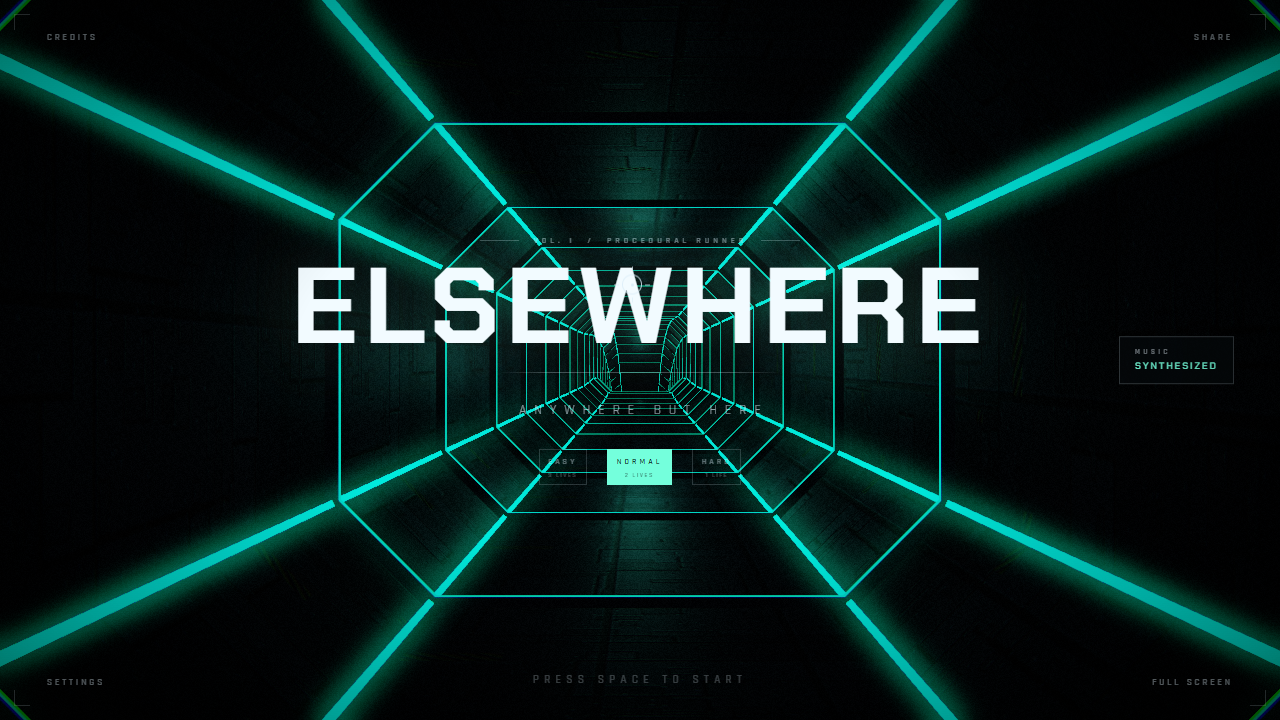
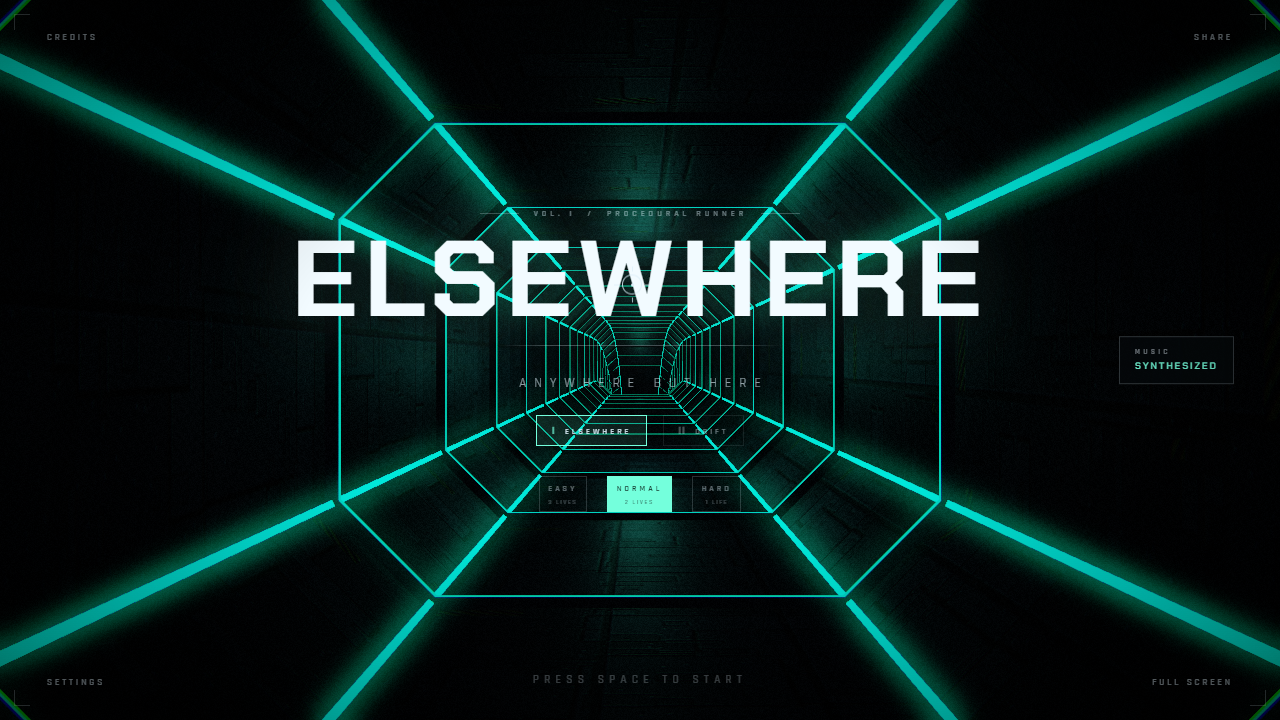
feat: clip glass to the corridor section, and pick volumes from the title screen
- the pane is clipped before either glass style runs, and the clip follows the
  topology: a closed octagon for conduit, a floor-to-lip rectangle for canal.
  Shutter walls no longer poke up into the sky
- the title screen gains a volume row: I ELSEWHERE / II DRIFT. Choosing one is
  a reload with ?vol=, which keeps the whole config-driven model intact instead
  of rebuilding a live scene

That completes the P0 list for DRIFT.

Changed region(s): [[0.2188, 0.275, 0.7812, 0.7333]]

diff --git a/js/gates.js b/js/gates.js
@@ -1,6 +1,6 @@
 import * as THREE from 'three';
-import { TUNNEL } from './tunnel.js?v=2026-11-10c';
-import { VOL } from './volumes.js?v=2026-11-10c';
+import { TUNNEL } from './tunnel.js?v=2026-11-10d';
+import { VOL } from './volumes.js?v=2026-11-10d';
 
 /* ------------------------------------------------------------------ *
  *  A bulkhead is not a sheet with a hole in it — it is a set of glass
@@ -91,6 +91,7 @@ uniform vec2  uSize;
 uniform float uHub;
 uniform float uStyle;
 uniform float uAxis;
+uniform float uClip;     // 0 = closed octagon, 1 = open canal
 
 const float PI = 3.14159265;
 const float TAU = 6.28318531;
@@ -100,6 +101,20 @@ float hash(float x){ return fract(sin(x * 127.1) * 43758.5453); }
 
 void main(){
   if (vDepth < 0.5) discard;
+
+  vec2 p = (vUv - 0.5) * uSize;
+
+  /* clip to the corridor's actual section, before either glass style */
+  float hullD;
+  if (uClip > 0.5) {
+    if (abs(p.x) > uHull.x || p.y < -uHull.y || p.y > 0.55) discard;
+    hullD = min(uHull.x - abs(p.x), min(p.y + uHull.y, 0.55 - p.y));
+  } else {
+    if (abs(p.x) > uHull.x || abs(p.y) > uHull.y) discard;
+    hullD = min(min(uHull.x - abs(p.x), uHull.y - abs(p.y)),
+                (uHull.x + uHull.y - uHull.z) - (abs(p.x) + abs(p.y)));
+    if (hullD < 0.0) discard;
+  }
 
   /* ---- shutter glass: three horizontal bands, one of them open ---- */
   if (uStyle > 0.5) {
@@ -126,14 +141,6 @@ void main(){
     gl_FragColor = vec4(col, clamp(a, 0.0, 1.0));
     return;
   }
-
-  vec2 p = (vUv - 0.5) * uSize;
-
-  // clip to the corridor's octagonal section
-  if (abs(p.x) > uHull.x || abs(p.y) > uHull.y) discard;
-  float hullD = min(min(uHull.x - abs(p.x), uHull.y - abs(p.y)),
-                    (uHull.x + uHull.y - uHull.z) - (abs(p.x) + abs(p.y)));
-  if (hullD < 0.0) discard;
 
   float r = length(p);
   float t = mod(atan(p.y, p.x) + TAU + PI / 8.0, TAU);
@@ -236,6 +243,7 @@ export class Gate {
         uHub: { value: HUB_R },
         uStyle: { value: VOL.obstacle === 'shutter' ? 1 : 0 },
         uAxis: { value: this.axis },
+        uClip: { value: VOL.topology === 'canal' ? 1 : 0 },
       },
       transparent: true,
       blending: THREE.AdditiveBlending,

diff --git a/js/main.js b/js/main.js
@@ -1,13 +1,13 @@
 import * as THREE from 'three';
-import { buildTextures } from './textures.js?v=2026-11-10c';
-import { Tunnel, TUNNEL } from './tunnel.js?v=2026-11-10c';
-import { buildPath } from './path.js?v=2026-11-10c';
-import { Gates, laneOf, lanePoint } from './gates.js?v=2026-11-10c';
-import { PostFX } from './post.js?v=2026-11-10c';
-import { AudioEngine } from './audio.js?v=2026-11-10c';
-import { chartFor, DIFFICULTY, SONG_BEATS } from './chart.js?v=2026-11-10c';
-import { VOL } from './volumes.js?v=2026-11-10c';
-import { Recorder } from './recorder.js?v=2026-11-10c';
+import { buildTextures } from './textures.js?v=2026-11-10d';
+import { Tunnel, TUNNEL } from './tunnel.js?v=2026-11-10d';
+import { buildPath } from './path.js?v=2026-11-10d';
+import { Gates, laneOf, lanePoint } from './gates.js?v=2026-11-10d';
+import { PostFX } from './post.js?v=2026-11-10d';
+import { AudioEngine } from './audio.js?v=2026-11-10d';
+import { chartFor, DIFFICULTY, SONG_BEATS } from './chart.js?v=2026-11-10d';
+import { VOL } from './volumes.js?v=2026-11-10d';
+import { Recorder } from './recorder.js?v=2026-11-10d';
 
 /* ------------------------------------------------------------------ *
  *  Boot flags
@@ -807,6 +807,11 @@ window.addEventListener('resize', resize);
  *  UI wiring
  * ------------------------------------------------------------------ */
 document.getElementById('ui').addEventListener('click', (e) => {
+  const volBtn = e.target.closest('[data-vol]');
+  if (volBtn) {
+    location.search = '?vol=' + volBtn.dataset.vol;
+    return;
+  }
   const diffBtn = e.target.closest('[data-diff]');
   if (diffBtn) {
     difficulty = diffBtn.dataset.diff;
@@ -852,6 +857,13 @@ document.getElementById('ui').addEventListener('click', (e) => {
   }
   if (act === 'closepanel') elPanel.classList.add('hidden');
 });
+
+function syncVolume() {
+  for (const b of document.querySelectorAll('[data-vol]')) {
+    b.classList.toggle('active', b.dataset.vol === VOL.id);
+  }
+}
+syncVolume();
 
 function syncDifficulty() {
   for (const b of document.querySelectorAll('[data-diff]')) {

diff --git a/css/style.css b/css/style.css
@@ -498,3 +498,29 @@ html,body{
   background:rgba(6,10,12,.72);
 }
 #menu .frame{ color:var(--ui); }
+/* ================================================================== *
+   VOLUME SELECTOR
+ * ================================================================== */
+.vols{
+  display:flex; gap:clamp(8px,1.2vw,18px); margin-top:3.2vh;
+  pointer-events:auto;
+}
+.vol-btn{
+  appearance:none; background:none; border:1px solid rgba(220,238,248,.20);
+  color:inherit; font-family:var(--text); font-weight:500;
+  padding:.6em 1.1em; display:flex; align-items:baseline; gap:.7em;
+  opacity:.45; transition:opacity .2s, border-color .2s, background .2s;
+}
+.vol-btn b{
+  font-family:var(--display); font-weight:700;
+  font-size:clamp(9px,.8vw,12px); letter-spacing:.1em; opacity:.7;
+}
+.vol-btn span{
+  font-size:clamp(8px,.66vw,10px); letter-spacing:.34em;
+}
+.vol-btn:hover{ opacity:.85; }
+.vol-btn.active{
+  opacity:1; background:rgba(116,255,220,.10);
+  border-color:var(--accent);
+}
+.vol-btn.active b{ color:var(--accent); }

diff --git a/index.html b/index.html
@@ -47,6 +47,11 @@
       <h1 class="wordmark">ELSEWHERE</h1>
       <div class="rule"></div>
       <div class="tagline">ANYWHERE BUT HERE</div>
+      <div class="vols" id="vols">
+        <button class="vol-btn" data-vol="elsewhere"><b>I</b><span>ELSEWHERE</span></button>
+        <button class="vol-btn" data-vol="drift"><b>II</b><span>DRIFT</span></button>
+      </div>
+
       <div class="diff" id="diff">
         <button class="diff-btn" data-diff="easy">EASY<em>3 LIVES</em></button>
         <button class="diff-btn" data-diff="normal">NORMAL<em>2 LIVES</em></button>

diff --git a/js/chart.js b/js/chart.js
@@ -9,7 +9,7 @@
  *      0 E   1 NE   2 N   3 NW   4 W   5 SW   6 S   7 SE
  * ------------------------------------------------------------------ */
 
-import { VOL } from './volumes.js?v=2026-11-10c';
+import { VOL } from './volumes.js?v=2026-11-10d';
 
 export const SONG_BEATS = VOL.beats;
 export const BPM = VOL.bpm;

diff --git a/js/audio.js b/js/audio.js
@@ -6,7 +6,7 @@
  *  from the audio clock so the visuals lock to the beat.
  * ------------------------------------------------------------------ */
 
-import { VOL } from './volumes.js?v=2026-11-10c';
+import { VOL } from './volumes.js?v=2026-11-10d';
 
 const BPM = VOL.bpm;
 const STEPS_PER_BAR = 16;
